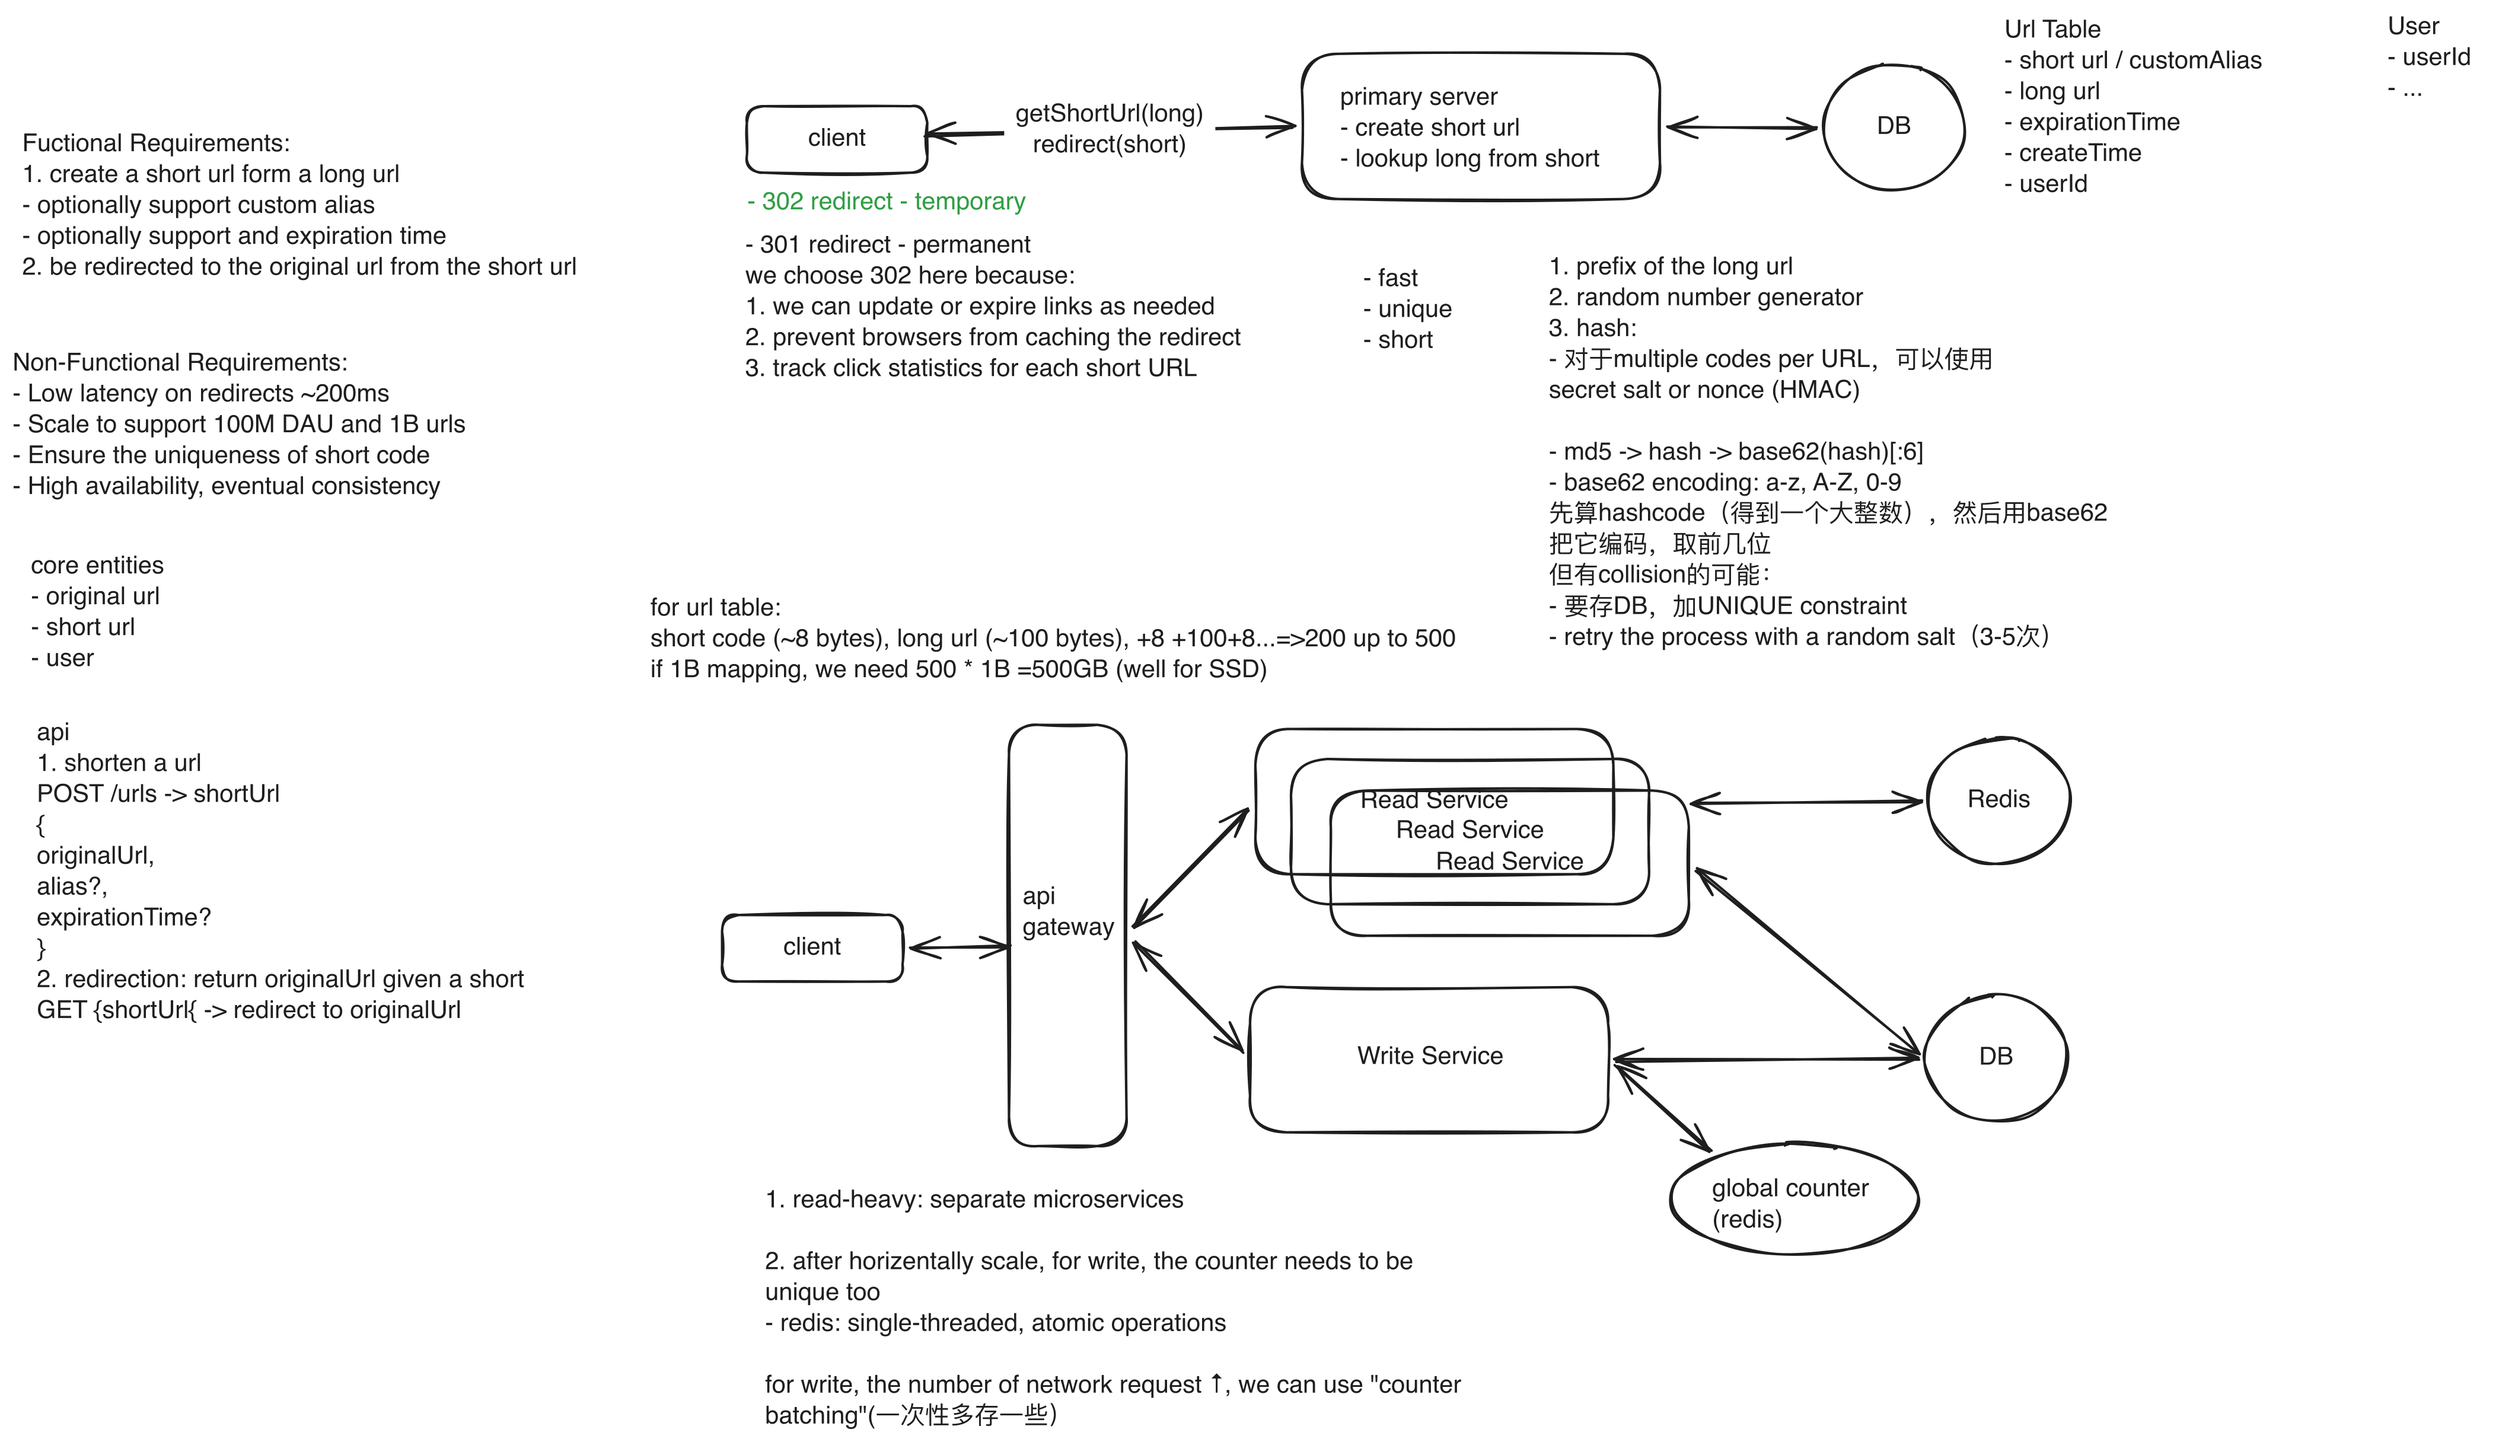
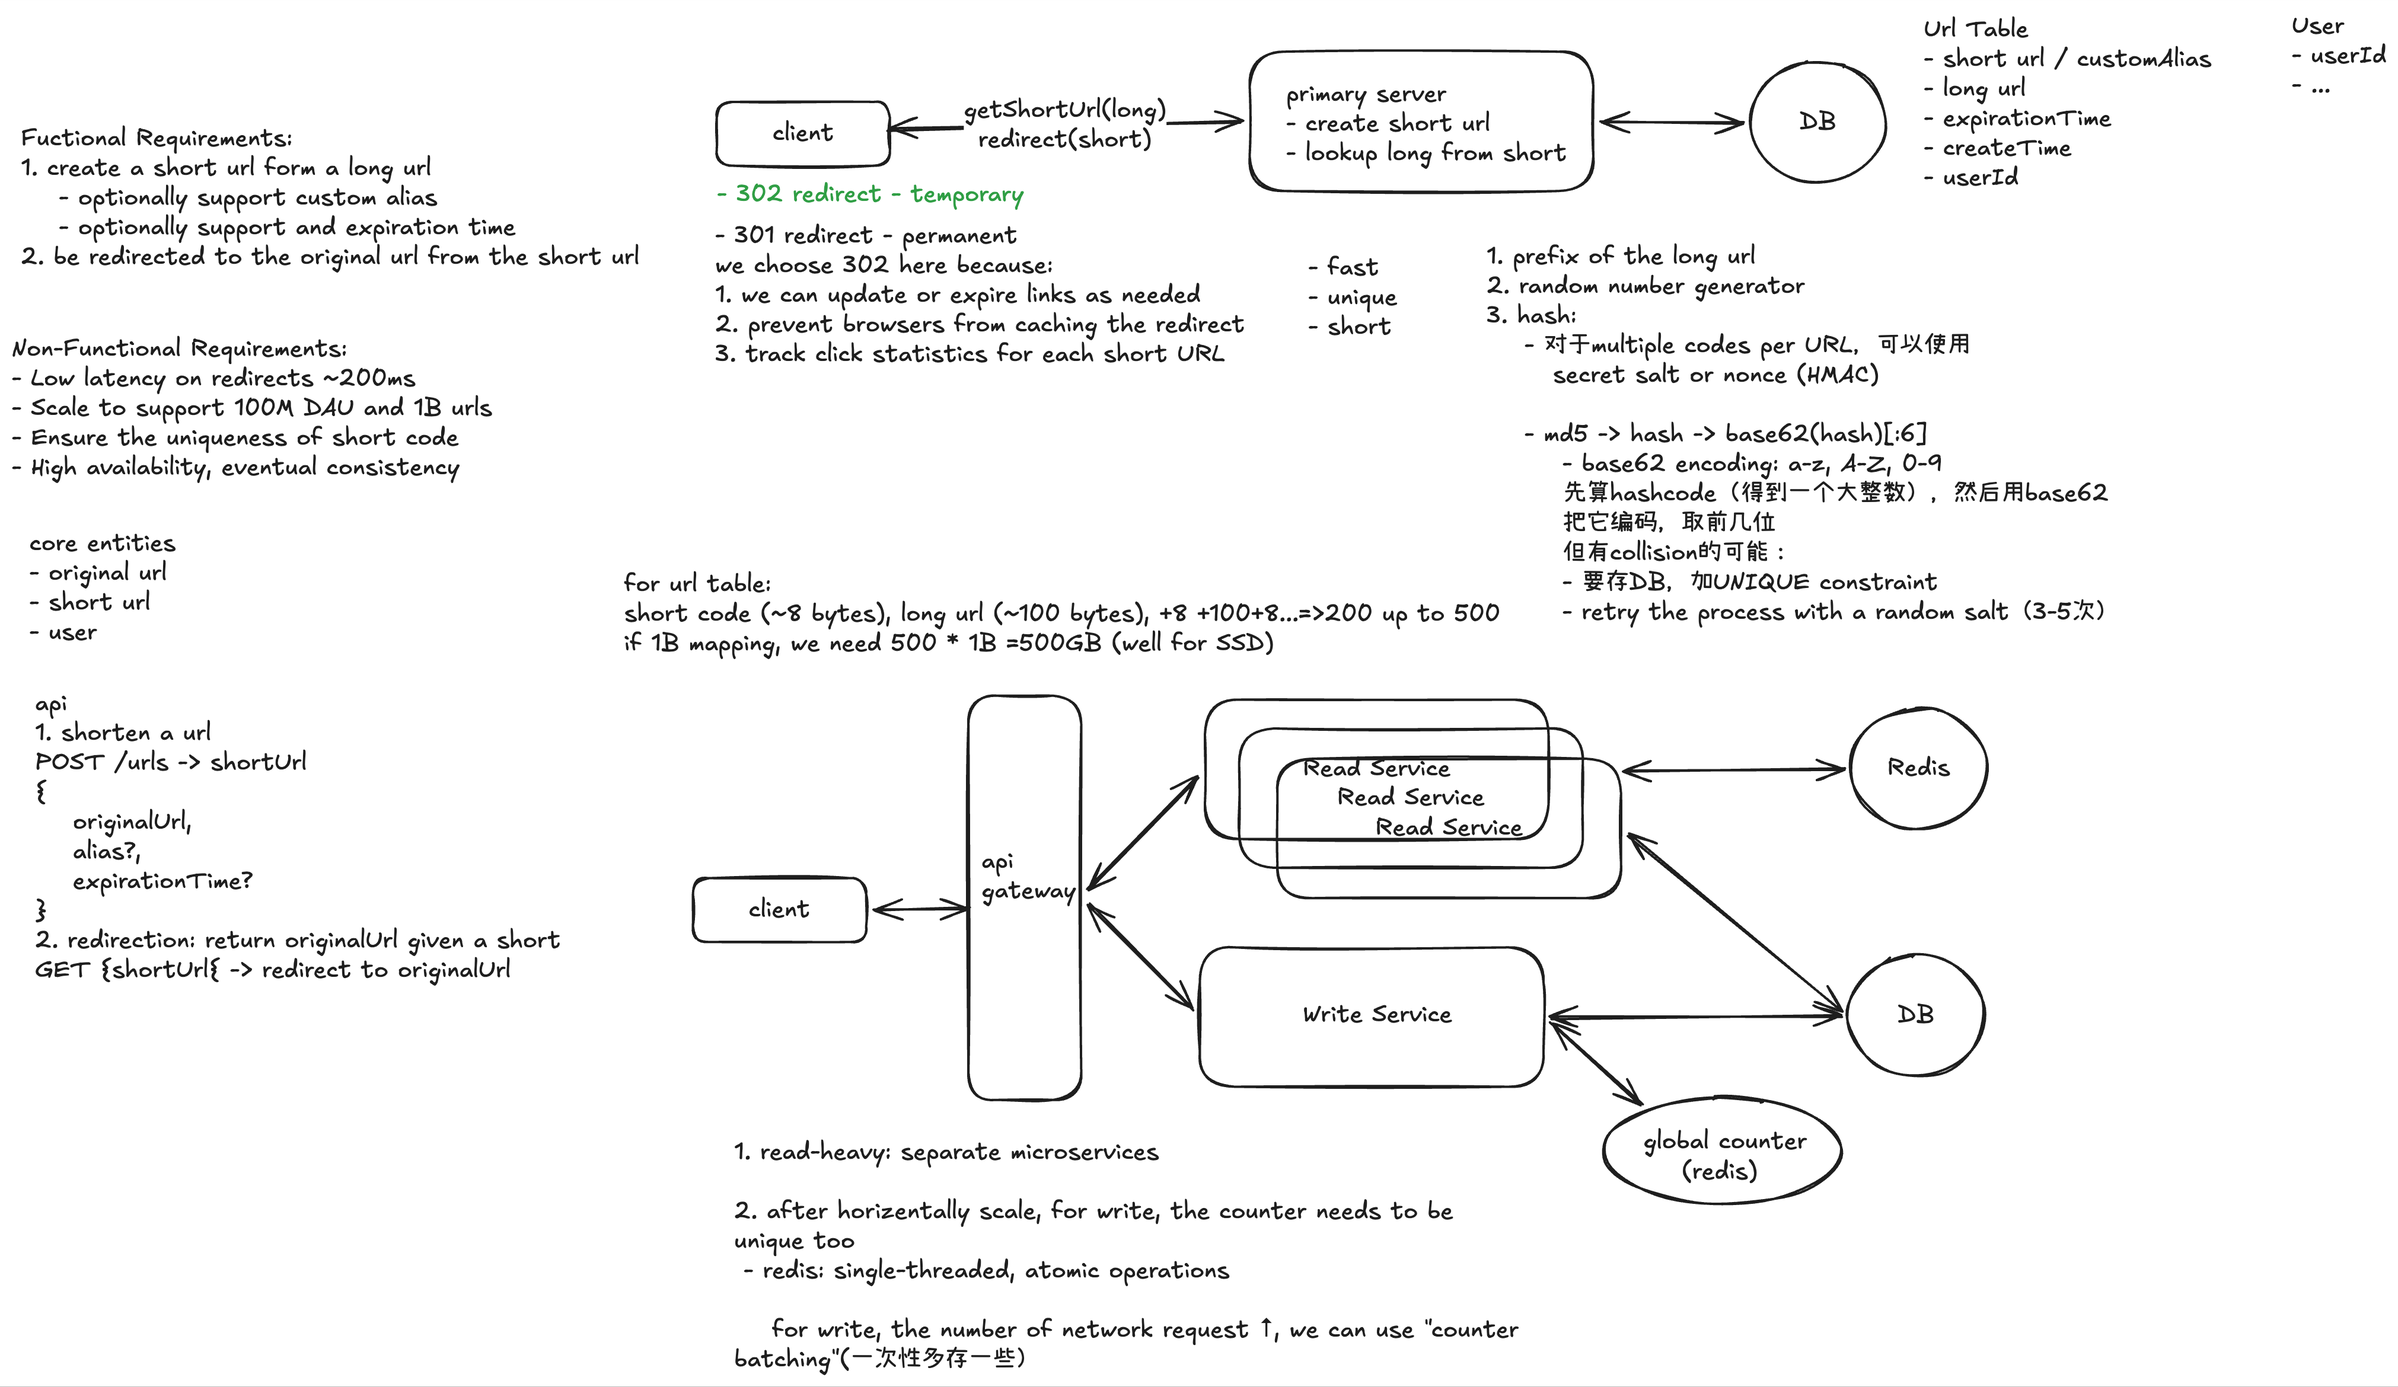
Fix diagram font rendering and sync Dropbox security notes
PNGs were rasterized with librsvg, which doesn't support the embedded
@font-face in the SVG export, so text fell back to a generic sans-serif
instead of Excalidraw's hand-drawn font. Re-render through headless
Chromium instead, which honors the embedded font. Also re-exported
Dropbox's diagram to pick up the newly added Security notes.

diff --git a/Excalidraw/Dropbox.md b/Excalidraw/Dropbox.md
@@ -185,6 +185,15 @@ GET /files/:fileId -> File & FileMetadata
 
 GET /changes?since={timestamp} -> FileMetadata[] ^KzWQplhS
 
+Security
+1. Encryption in Transit: HTTPS
+2. Encryption at Rest: S3 encryption
+3.Access Control: shareList
+4. CDN:
+    - generation
+    - distribution
+    - validation ^12K8lUUf
+
 %%
 ## Drawing
 ```compressed-json
@@ -194,274 +203,228 @@ N4KAkARALgngDgUwgLgAQQQDwMYEMA2AlgCYBOuA7hADTgQBuCpAzoQPYB2KqATLZMzYBXUtiRoIACyh
 
[1 lines of base64/hex data omitted]
 
[2 lines of base64/hex data omitted]
 
[2 lines of base64/hex data omitted]
 
[2 lines of base64/hex data omitted]
 
[2 lines of base64/hex data omitted]
 
[2 lines of base64/hex data omitted]
 
[2 lines of base64/hex data omitted]
 
[2 lines of base64/hex data omitted]
 
[2 lines of base64/hex data omitted]
 
[2 lines of base64/hex data omitted]
 
[2 lines of base64/hex data omitted]
 
[2 lines of base64/hex data omitted]
 
[2 lines of base64/hex data omitted]
 
[2 lines of base64/hex data omitted]
 
[2 lines of base64/hex data omitted]
 
[2 lines of base64/hex data omitted]
 
[2 lines of base64/hex data omitted]
 
[2 lines of base64/hex data omitted]
 
[2 lines of base64/hex data omitted]
 
[2 lines of base64/hex data omitted]
 
[2 lines of base64/hex data omitted]
 
[2 lines of base64/hex data omitted]
 
[2 lines of base64/hex data omitted]
 
[2 lines of base64/hex data omitted]
 
[2 lines of base64/hex data omitted]
 
[2 lines of base64/hex data omitted]
 
[2 lines of base64/hex data omitted]
 
[2 lines of base64/hex data omitted]
 
[2 lines of base64/hex data omitted]
 
[2 lines of base64/hex data omitted]
 
[2 lines of base64/hex data omitted]
 
[2 lines of base64/hex data omitted]
 
[2 lines of base64/hex data omitted]
 
[2 lines of base64/hex data omitted]
 
[2 lines of base64/hex data omitted]
 
[2 lines of base64/hex data omitted]
 
[2 lines of base64/hex data omitted]
 
[2 lines of base64/hex data omitted]
 
[2 lines of base64/hex data omitted]
 
[2 lines of base64/hex data omitted]
 
[2 lines of base64/hex data omitted]
 
[2 lines of base64/hex data omitted]
 
[2 lines of base64/hex data omitted]
 
[2 lines of base64/hex data omitted]
 
[2 lines of base64/hex data omitted]
 
[2 lines of base64/hex data omitted]
 
[2 lines of base64/hex data omitted]
 
[2 lines of base64/hex data omitted]
 
[2 lines of base64/hex data omitted]
 
[2 lines of base64/hex data omitted]
 
[2 lines of base64/hex data omitted]
 
[2 lines of base64/hex data omitted]
 
[2 lines of base64/hex data omitted]
 
[2 lines of base64/hex data omitted]
 
[2 lines of base64/hex data omitted]
 
[2 lines of base64/hex data omitted]
 
[2 lines of base64/hex data omitted]
 
[2 lines of base64/hex data omitted]
 
[2 lines of base64/hex data omitted]
 
[2 lines of base64/hex data omitted]
 
[2 lines of base64/hex data omitted]
 
[2 lines of base64/hex data omitted]
 
[2 lines of base64/hex data omitted]
 
[2 lines of base64/hex data omitted]
 
[2 lines of base64/hex data omitted]
 
[2 lines of base64/hex data omitted]
 
[2 lines of base64/hex data omitted]
 
[2 lines of base64/hex data omitted]
 
[2 lines of base64/hex data omitted]
 
[2 lines of base64/hex data omitted]
 
[2 lines of base64/hex data omitted]
 
[2 lines of base64/hex data omitted]
 
[2 lines of base64/hex data omitted]
 
[2 lines of base64/hex data omitted]
 
[2 lines of base64/hex data omitted]
 
[2 lines of base64/hex data omitted]
 
[2 lines of base64/hex data omitted]
 
[2 lines of base64/hex data omitted]
 
[2 lines of base64/hex data omitted]
 
[2 lines of base64/hex data omitted]
 
[2 lines of base64/hex data omitted]
 
[2 lines of base64/hex data omitted]
 
[2 lines of base64/hex data omitted]
 
[2 lines of base64/hex data omitted]
 
[2 lines of base64/hex data omitted]
 
[2 lines of base64/hex data omitted]
 
[2 lines of base64/hex data omitted]
 
[2 lines of base64/hex data omitted]
 
[2 lines of base64/hex data omitted]
 
[2 lines of base64/hex data omitted]
 
[2 lines of base64/hex data omitted]
 
[2 lines of base64/hex data omitted]
 
[2 lines of base64/hex data omitted]
 
[2 lines of base64/hex data omitted]
 
[2 lines of base64/hex data omitted]
 
[2 lines of base64/hex data omitted]
 
[2 lines of base64/hex data omitted]
 
[2 lines of base64/hex data omitted]
 
[2 lines of base64/hex data omitted]
 
[2 lines of base64/hex data omitted]
 
[2 lines of base64/hex data omitted]
 
[2 lines of base64/hex data omitted]
 
[2 lines of base64/hex data omitted]
 
[2 lines of base64/hex data omitted]
 
[2 lines of base64/hex data omitted]
 
[2 lines of base64/hex data omitted]
 
[2 lines of base64/hex data omitted]
 
[2 lines of base64/hex data omitted]
 
[2 lines of base64/hex data omitted]
 
[2 lines of base64/hex data omitted]
 
[2 lines of base64/hex data omitted]
 
[2 lines of base64/hex data omitted]
 
[1 lines of base64/hex data omitted]
-
[1 lines of base64/hex data omitted]
-
[1 lines of base64/hex data omitted]
-
[1 lines of base64/hex data omitted]
-
[1 lines of base64/hex data omitted]
-
[1 lines of base64/hex data omitted]
-
[1 lines of base64/hex data omitted]
-
[1 lines of base64/hex data omitted]
-
[1 lines of base64/hex data omitted]
-
[1 lines of base64/hex data omitted]
-
[1 lines of base64/hex data omitted]
-
[1 lines of base64/hex data omitted]
-
[1 lines of base64/hex data omitted]
-
[1 lines of base64/hex data omitted]
-
[1 lines of base64/hex data omitted]
-
[1 lines of base64/hex data omitted]
-
[1 lines of base64/hex data omitted]
-
[1 lines of base64/hex data omitted]
-
[1 lines of base64/hex data omitted]
-
[1 lines of base64/hex data omitted]
-
[1 lines of base64/hex data omitted]
-
[1 lines of base64/hex data omitted]
-
[1 lines of base64/hex data omitted]
-
[2 lines of base64/hex data omitted]
 ```
 %%
